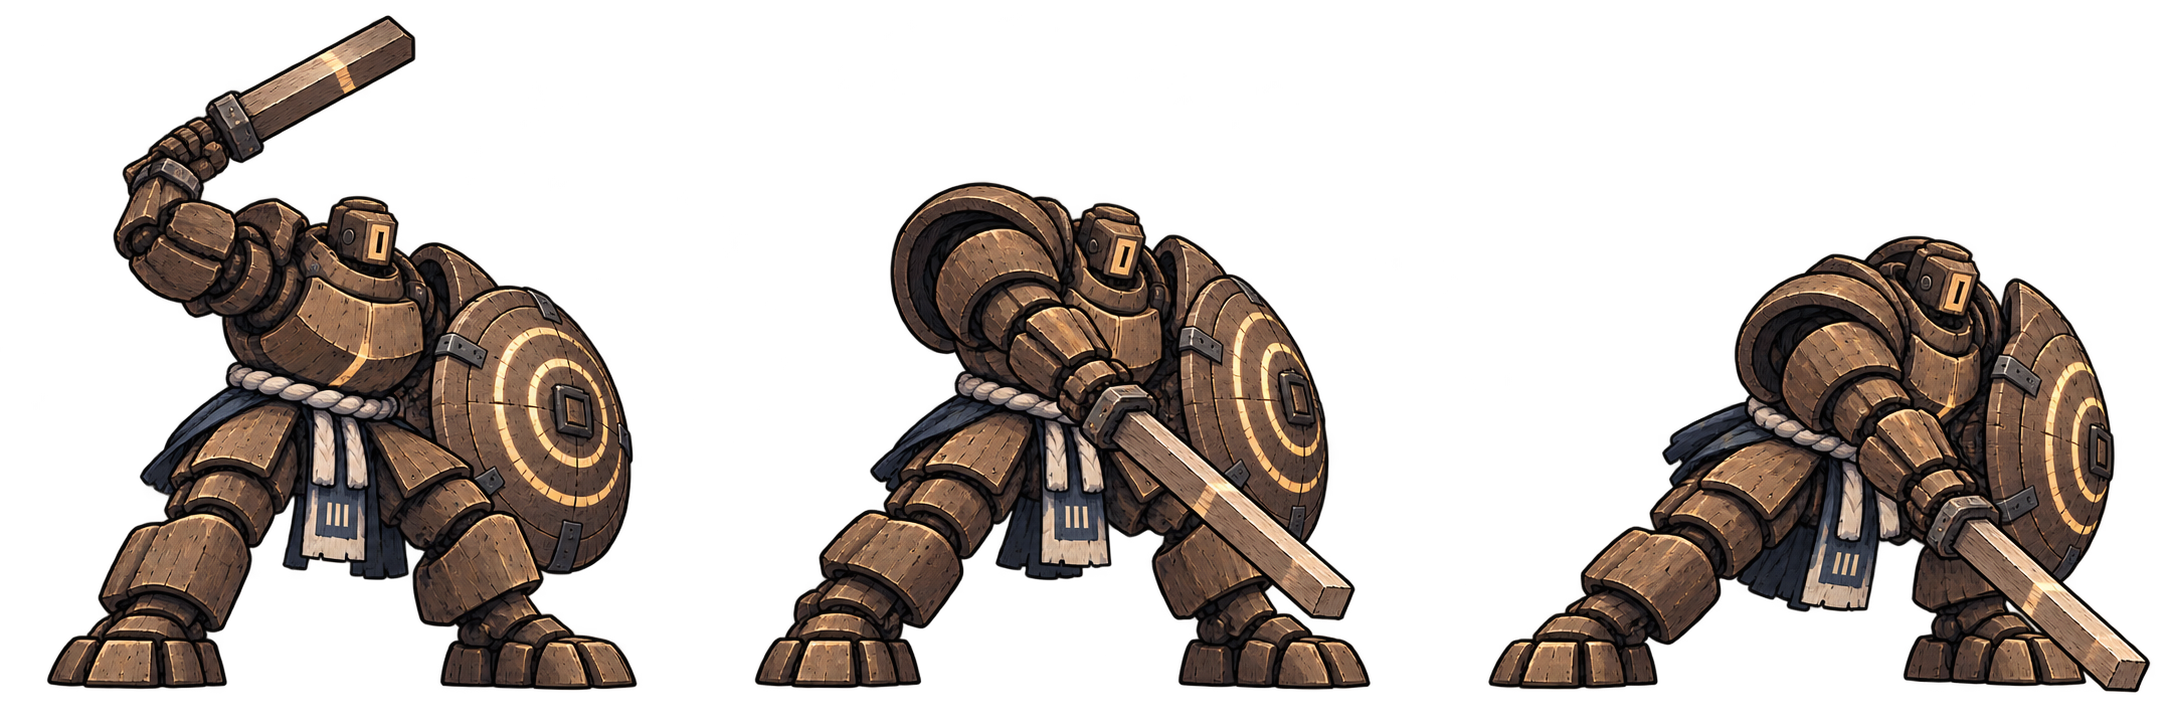
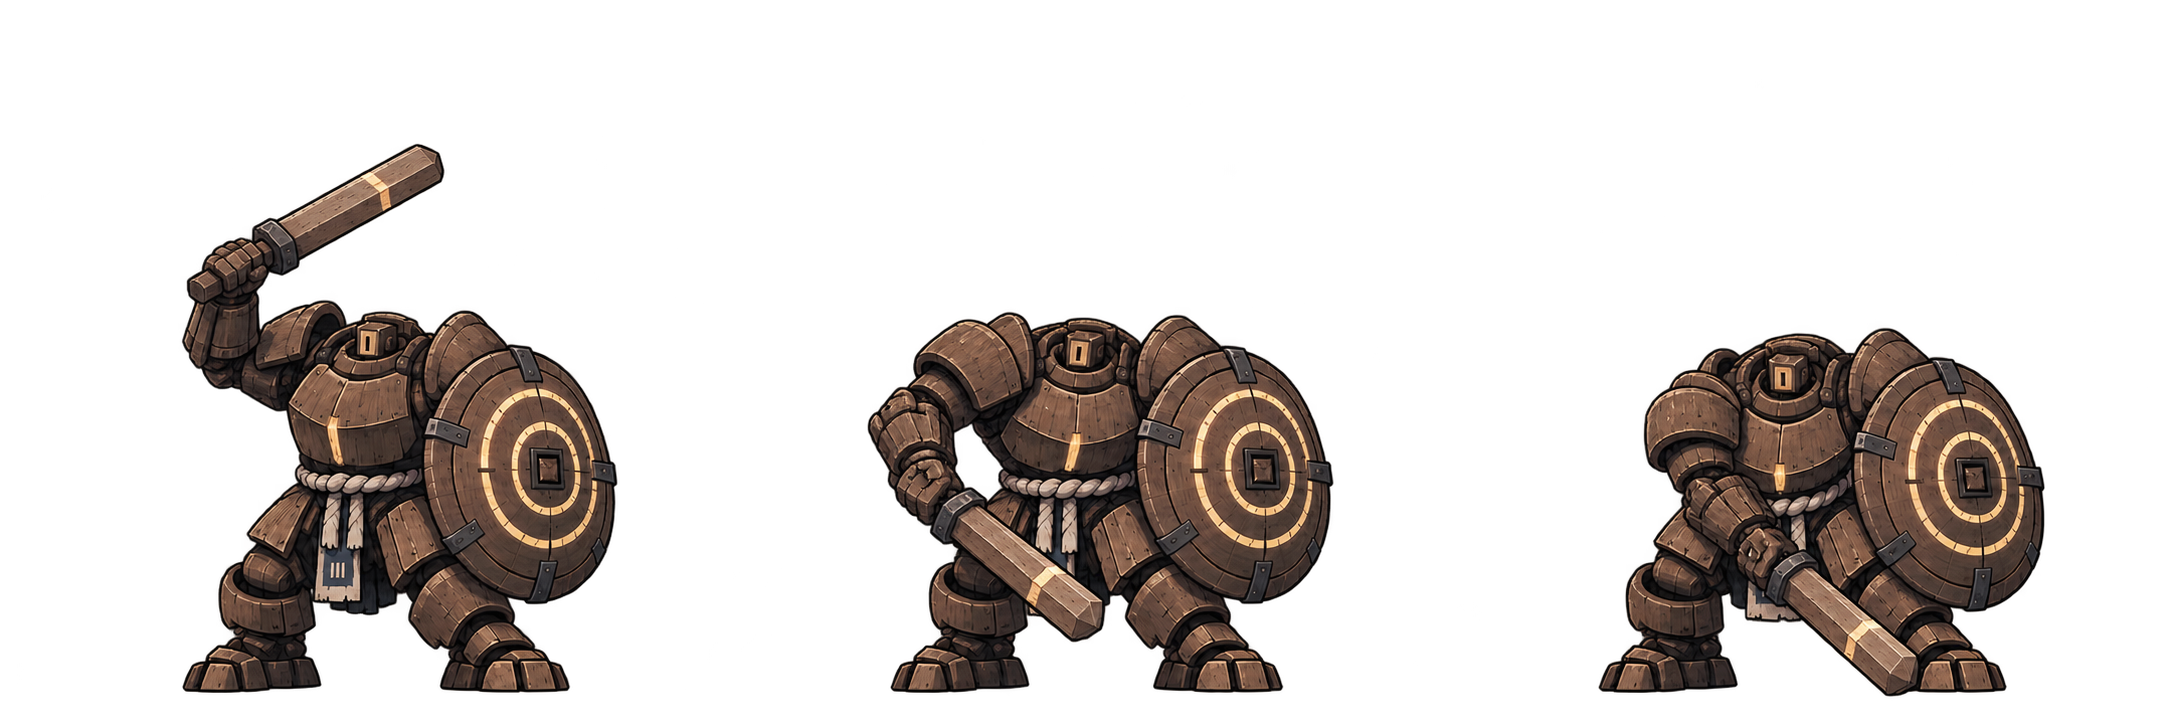
fix(guard): stabilize heavy attack appearance and remove GD04 barrier visual

diff --git a/tests/Unity/Guard/KarmaGuardPlayChecks.cs b/tests/Unity/Guard/KarmaGuardPlayChecks.cs
@@ -352,6 +352,11 @@ public static partial class KarmaGuardPlayChecks
             var molten = KarmaArtwork.Sprite("GuardHeavyMolten" + form, "Windup");
             Check(picture.sprite == normal && !enemy.HeavyParryWindowOpen, "GD02 starts with the original cool weapon: " + form);
             Vector3 scale = picture.transform.localScale, position = picture.transform.localPosition;
+            var heavyMotion = Get<object>(animator, "heavyStrike");
+            var showHeavy = (Func<EnemyAttack, bool>)Delegate.CreateDelegate(typeof(Func<EnemyAttack, bool>), heavyMotion, "Show");
+            Check(KarmaAllocationChecks.Count(() => { for (int i = 0; i < 120; i++) showHeavy(EnemyAttack.GD02); }) == 0,
+                "GD02 repeated calibrated pose display creates no steady managed allocations: " + form);
+
             await Until(() => enemy.HeavyParryWindowOpen, 2);
             var effects = Get<Transform>(enemy, "effectsRoot");
             Check(molten != null && picture.sprite == molten && effects.Find("GD02 parry cue") == null,
@@ -375,8 +380,9 @@ public static partial class KarmaGuardPlayChecks
             Check(animator.CurrentPose == "Idle" || animator.CurrentPose == "Guard",
                 "GD02 missed heavy recovers without a false hurt/recoil pose: " + form);
             Vector3 idleScale = picture.transform.localScale;
-            Check(scale.x < idleScale.x && Mathf.Approximately(scale.x, scale.y),
-                "GD02 larger source artwork is normalized to the standing body without stretching: " + form);
+            Check(Mathf.Approximately(scale.x, idleScale.x * normal.pixelsPerUnit / (picture.sprite.pixelsPerUnit * 1.35f))
+                && Mathf.Approximately(scale.x, scale.y),
+                "GD02 uses the idle pixel density with one uniform authoring scale: " + form);
             animator.Hurt(); await Seconds(0.03f);
             Check(animator.CurrentPose == "Hurt", "GD02 recovery still shows an actual damage reaction");
         }
@@ -565,10 +571,9 @@ public static partial class KarmaGuardPlayChecks
     }
     static async Task CheckShieldDisplayPriority()
     {
-        var frontal = Resources.Load<Sprite>("Guard/Effects/GD04_FrontBarrier");
         var invulnerable = Resources.Load<Sprite>("Guard/Effects/Guard_InvulnerableBarrier");
         var gd01 = KarmaArtwork.Sprite("GuardBossVFX", "Shield");
-        Check(frontal != null && invulnerable != null && gd01 != null, "All shield states load without replacing GD01's existing sprite");
+        Check(invulnerable != null && gd01 != null, "GD01 and invulnerability shield sprites load");
         foreach (var order in new[] { new[] { Essence.Guard, Essence.RisingSlash },
             new[] { Essence.Guard, Essence.SwordWave, Essence.RisingSlash } })
         foreach (int facing in new[] { -1, 1 })
@@ -580,27 +585,26 @@ public static partial class KarmaGuardPlayChecks
             var halo = Get<SpriteRenderer>(enemy, "shieldHalo");
             void State(Sprite expected, string label)
             {
-                Check(halo.enabled && halo.sprite == expected, label);
+                Check(halo.sprite == expected && (expected == null || halo.enabled), label);
                 int visible = 0;
                 foreach (var renderer in enemy.GetComponentsInChildren<SpriteRenderer>())
-                    if (renderer.enabled && (renderer.sprite == gd01 || renderer.sprite == frontal || renderer.sprite == invulnerable)) visible++;
-                Check(visible == 1, "Exactly one shield is visible: " + label);
+                    if (renderer.enabled && (renderer.sprite == gd01 || renderer.sprite == invulnerable)) visible++;
+                Check(visible == (expected == null ? 0 : 1), "Only the expected shield is visible: " + label);
             }
-            State(gd01, "GD01 suppresses the GD04 frontal visual in both directions");
+            State(gd01, "GD01 remains visible during GD04 in both directions");
             Check(Get<bool>(enemy, "frontalGuard"), "Actual GD04 still owns frontal damage reduction underneath GD01");
             if (order.Length == 3 && facing == 1) CaptureShieldFrame("GD04_with_GD01");
             Call(enemy, "BreakAutoShield"); Set(enemy, "nextShield", float.MaxValue);
             await Seconds(0.04f);
-            State(frontal, "Breaking GD01 reveals GD04's still-active frontal barrier");
-            Check(halo.flipX == (facing < 0), "The frontal arc follows the actual attack facing");
-            if (order.Length == 3) CaptureShieldFrame(facing < 0 ? "GD04_Front_Left" : "GD04_Front_Right");
+            State(null, "Breaking GD01 during GD04 leaves no barrier image");
+            if (order.Length == 3) CaptureShieldFrame(facing < 0 ? "GD04_NoBarrier_Left" : "GD04_NoBarrier_Right");
             float clock = enemy.FightSeconds;
             game.TogglePause(); await Task.Delay(80);
-            Check(enemy.FightSeconds == clock && halo.sprite == frontal, "Pause freezes the displayed shield state");
+            Check(enemy.FightSeconds == clock && halo.sprite == null, "Pause preserves GD04 without a barrier image");
             game.TogglePause();
             Set(enemy, "fullShield", true); Set(enemy, "shieldUntil", float.PositiveInfinity);
             await Seconds(0.04f);
-            State(invulnerable, "Invulnerability suppresses both GD01 and frontal artwork");
+            State(invulnerable, "Invulnerability remains visible during GD04");
             float hp = enemy.Health; enemy.TakeDamage(10, enemy.Position);
             Check(enemy.Health == hp, "Invulnerability still blocks damage");
             if (order.Length == 3 && facing == 1) CaptureShieldFrame("Invulnerable_Priority");
@@ -611,7 +615,7 @@ public static partial class KarmaGuardPlayChecks
                 "GD01 still reduces rear damage");
             Call(enemy, "BreakAutoShield"); Set(enemy, "nextShield", float.MaxValue);
             await Seconds(0.04f);
-            State(frontal, "After both higher-priority states end, GD04's frontal shield returns");
+            State(null, "Ending GD01 and invulnerability leaves GD04 without a barrier image");
             hp = enemy.Health;
             enemy.TakeDamage(10, enemy.Position + Vector2.right * facing * 5);
             Check(Mathf.Abs(hp - enemy.Health - 10 * game.Config.BossTuning.guard.shieldDamageMultiplier) < 0.02f,
@@ -633,10 +637,9 @@ public static partial class KarmaGuardPlayChecks
         var paint = (Action)Delegate.CreateDelegate(typeof(Action), behavior, behavior.GetType().GetMethod("PaintShield", Private));
         long events = KarmaAllocationChecks.Count(() => { for (int i = 0; i < 240; i++) paint(); });
         Check(events == 0, "Steady shield updates allocate no managed objects");
-        long textureBytes = UnityEngine.Profiling.Profiler.GetRuntimeMemorySizeLong(frontal.texture)
-            + UnityEngine.Profiling.Profiler.GetRuntimeMemorySizeLong(invulnerable.texture);
+        long textureBytes = UnityEngine.Profiling.Profiler.GetRuntimeMemorySizeLong(invulnerable.texture);
         Debug.Log("Guard shield display: one existing renderer, zero new GameObjects, steady GC.Alloc events=" + events
-            + ", two new texture runtime bytes=" + textureBytes + ". GPU frame time not measured.");
+            + ", invulnerability texture runtime bytes=" + textureBytes + ". GPU frame time not measured.");
         game.PlayerDied(); await Task.Delay(80);
         Check(!Get<SpriteRenderer>(enemy, "shieldHalo").enabled, "Death cleanup cannot leave a shield behind");
     }

diff --git a/tests/Unity/Guard/KarmaGuardAppearanceChecks.cs b/tests/Unity/Guard/KarmaGuardAppearanceChecks.cs
@@ -22,7 +22,7 @@ public static partial class KarmaGuardPlayChecks
     static int appearanceBoundsChecks;
     static RenderTexture appearanceVideoTarget;
     static Texture2D appearanceVideoPixels;
-    static bool appearanceDomeOnly;
+    static bool appearanceDomeOnly, appearanceHeavyOnly;
 
     [Serializable] sealed class AppearanceSample
     {
@@ -49,6 +49,11 @@ public static partial class KarmaGuardPlayChecks
         UnityEditor.SceneManagement.EditorSceneManager.OpenScene("Assets/Scenes/KarmaPrototype.unity");
         EditorWindow.GetWindow(typeof(Editor).Assembly.GetType("UnityEditor.GameView")).Show();
         EditorApplication.EnterPlaymode();
+    }
+    public static void RunHeavyAppearanceBatch()
+    {
+        SessionState.SetBool(AppearanceKey + ".HeavyOnly", true);
+        RunAppearanceAuditBatch();
     }
     public static void RunAppearanceGD05Batch()
     {
@@ -108,6 +113,12 @@ public static partial class KarmaGuardPlayChecks
                 if ((row.damageBounds.size - before.worldSize).sqrMagnitude > 0.00001f)
                     appearanceIssues.Add(route + "/" + label + ": original attack damage bounds changed");
             }
+        }
+        if (phase == "Static" && (label.StartsWith("GD02_") || label.StartsWith("GD05_Heavy")))
+        {
+            var idle = appearanceSamples.Find(s => s.route == route && s.phase == "Static" && s.label == "Idle" && s.facing == facing);
+            if (idle == null || (row.localScale - idle.localScale * (row.ppu / (idle.ppu * 1.35f))).sqrMagnitude > 0.00001f)
+                appearanceIssues.Add(route + "/" + label + ": heavy artwork pixel density differs from idle calibration");
         }
         if (Mathf.Abs(Mathf.Abs(row.worldScale.x) - Mathf.Abs(row.worldScale.y)) > 0.0001f)
             appearanceIssues.Add(route + "/" + label + ": nonuniform body transform " + row.worldScale);
@@ -232,6 +243,7 @@ public static partial class KarmaGuardPlayChecks
         if (Array.IndexOf(order, Essence.SwordWave) >= 0) patterns.Add(EnemyAttack.GD03);
         if (Array.IndexOf(order, Essence.RisingSlash) >= 0) patterns.Add(EnemyAttack.GD04);
         if (order.Length == 3) patterns.Add(EnemyAttack.GD05);
+        if (appearanceHeavyOnly) patterns.RemoveAll(pattern => pattern != EnemyAttack.GD02 && pattern != EnemyAttack.GD04 && pattern != EnemyAttack.GD05);
         if (appearanceDomeOnly) patterns.RemoveAll(pattern => pattern != EnemyAttack.GD05);
         foreach (var pattern in patterns)
         foreach (bool alternate in new[] { false, true })
@@ -302,6 +314,8 @@ public static partial class KarmaGuardPlayChecks
         bool background = Application.runInBackground; Application.runInBackground = true;
         Application.logMessageReceived += CaptureError; runtimeError = null;
         int code = 0;
+        appearanceHeavyOnly = SessionState.GetBool(AppearanceKey + ".HeavyOnly", false);
+        SessionState.EraseBool(AppearanceKey + ".HeavyOnly");
         appearanceDomeOnly = SessionState.GetBool(AppearanceKey + ".DomeOnly", false);
         SessionState.EraseBool(AppearanceKey + ".DomeOnly");
         Directory.CreateDirectory(AppearanceOutput);
@@ -345,7 +359,7 @@ public static partial class KarmaGuardPlayChecks
         {
             File.WriteAllText(AppearanceOutput + "/samples.json", JsonUtility.ToJson(new AppearanceAudit {
                 samples = appearanceSamples, issues = appearanceIssues,
-                coverage = (appearanceDomeOnly ? "Two final Guard inheritance routes; live GD05 only. " : "Five Guard inheritance routes; all live eligible attacks with full/low HP. ")
+                coverage = (appearanceDomeOnly ? "Two final Guard inheritance routes; live GD05 only. " : appearanceHeavyOnly ? "Five Guard inheritance routes; live GD02/GD04/GD05 with full/low HP. " : "Five Guard inheritance routes; all live eligible attacks with full/low HP. ")
                     + "Both facings; static reachable poses, six heavy frames, shield-away, GD04, death/revival; GD05 success/failure. Live trial duration shortened to 2 seconds in a runtime config copy. Captures and sampling do not edit production assets."
             }, true));
             Debug.Log("Guard appearance audit completed: " + appearanceSamples.Count + " samples, " + appearanceBoundsChecks + " original damage-bound comparisons, " + appearanceIssues.Count + " structural findings. See samples.json and same-scale pose captures; unchanged transforms do not prove unchanged painted anatomy.");

diff --git a/Assets/Scripts/Guard/KarmaGuardBossBehavior.cs b/Assets/Scripts/Guard/KarmaGuardBossBehavior.cs
@@ -19,7 +19,7 @@ namespace KarmaPrototype
             readonly GD01Pattern shield;
             public readonly GD02Pattern Heavy;
             public readonly GD05Pattern Dome;
-            Sprite gd01Shield, frontalShield, invulnerableShield;
+            Sprite gd01Shield, invulnerableShield;
             Vector2 shieldVisualSize;
             MaterialPropertyBlock shieldProperties;
             int domeUses;
@@ -43,9 +43,8 @@ namespace KarmaPrototype
                     throw new System.InvalidOperationException("GD01 이전 방어막 이미지가 없습니다.");
                 owner.shieldHalo.transform.localPosition = Vector2.up * KarmaSpace.Units(1.2f);
                 gd01Shield = owner.shieldHalo.sprite;
-                frontalShield = Resources.Load<Sprite>("Guard/Effects/GD04_FrontBarrier");
                 invulnerableShield = Resources.Load<Sprite>("Guard/Effects/Guard_InvulnerableBarrier");
-                if (frontalShield == null || invulnerableShield == null)
+                if (invulnerableShield == null)
                     throw new System.InvalidOperationException("방어형 상태별 방어막 이미지가 없습니다.");
                 shieldVisualSize = KarmaSpace.Units(new Vector2(4.4f, 3.8f)) * KarmaSpace.GuardianSizeBoost;
                 shieldProperties = new MaterialPropertyBlock();
@@ -123,22 +122,18 @@ namespace KarmaPrototype
             public override void Tick() { shield.Tick(); PaintShield(); }
             void PaintShield()
             {
-                // One existing renderer, one visual: invulnerability > GD01 > GD04 frontal defense.
-                // Visibility and damage remain owned by the existing combat state and rules.
-                var sprite = owner.Invulnerable ? invulnerableShield : AutoShieldActive || BlocksSelection ? gd01Shield : frontalShield;
+                // GD04 keeps frontal damage reduction without an additional barrier image.
+                var sprite = owner.Invulnerable ? invulnerableShield : AutoShieldActive || BlocksSelection ? gd01Shield : null;
                 var halo = owner.shieldHalo;
-                if (halo.sprite != sprite)
-                {
-                    halo.sprite = sprite;
-                    // The new full-canvas sprites retain transparent pivot space; match their painted
-                    // ring radius to the existing, tightly sliced GD01 image rather than its canvas.
-                    float framing = sprite == frontalShield ? 1.2f : sprite == invulnerableShield ? 1.15f : 1;
-                    halo.transform.localScale = new Vector3(shieldVisualSize.x * framing / sprite.bounds.size.x,
-                        shieldVisualSize.y * framing / sprite.bounds.size.y, 1);
-                    halo.GetPropertyBlock(shieldProperties);
-                    shieldProperties.SetTexture("_MainTex", sprite.texture); halo.SetPropertyBlock(shieldProperties);
-                }
-                halo.flipX = sprite == frontalShield && owner.Facing < 0;
+                if (halo.sprite == sprite) return;
+                halo.sprite = sprite;
+                if (sprite == null) return;
+                // Match the invulnerability ring to GD01 despite its transparent canvas padding.
+                float framing = sprite == invulnerableShield ? 1.15f : 1;
+                halo.transform.localScale = new Vector3(shieldVisualSize.x * framing / sprite.bounds.size.x,
+                    shieldVisualSize.y * framing / sprite.bounds.size.y, 1);
+                halo.GetPropertyBlock(shieldProperties);
+                shieldProperties.SetTexture("_MainTex", sprite.texture); halo.SetPropertyBlock(shieldProperties);
             }
             public override bool TrySelect(float distance, bool sight, bool escape, out EnemyAttack attack)
             {

diff --git a/Assets/Scripts/Guard/Visuals/KarmaHeavyStrikeMotion.cs b/Assets/Scripts/Guard/Visuals/KarmaHeavyStrikeMotion.cs
@@ -42,12 +42,12 @@ namespace KarmaPrototype
                     if (shieldlessPoses[i] == null || shieldlessHeatedPoses[i] == null)
                         throw new System.InvalidOperationException("GD05 빈손 강공격 자세 누락: " + names[i]);
                 }
-            // Match the helmet-to-sole body against this form's standing pose, excluding the raised weapon.
-            // All three frames and their molten variants share the same authored body scale.
+            // Preserve the original damage bounds independently of visual artwork calibration.
             float bodyFraction = key == "Ward" ? 0.76f : key == "WardRise" ? 0.64f : key == "WardWave" ? 0.60f : 0.65f;
             damageScale = originalScale * (standing.bounds.size.y / (poses[0].bounds.size.y * bodyFraction));
-            // Corrected compact bodies retain their idle helmet-to-sole size; damage keeps its original bounds.
-            scale = damageScale * (key == "WardWave" ? 1.10f : key == "WardFinal" ? 1.16f : 1);
+            // Heavy sheets use 1.35 source pixels per idle pixel, including molten and shield-away poses.
+            // Weapon reach and transparent padding must not change the body's pixel density.
+            scale = originalScale * (poses[0].pixelsPerUnit / (standing.pixelsPerUnit * 1.35f));
         }
         public void Prepare() { active = true; swinging = heated = false; Apply(0); }
         public void Heat() { heated = true; if (active && !swinging) Apply(0); }
@@ -67,7 +67,7 @@ namespace KarmaPrototype
             picture.transform.localPosition = home;
             picture.transform.localScale = scale;
             picture.transform.localRotation = Quaternion.identity;
-            CurrentPose = "GD02/" + poses[index].name;
+            CurrentPose = index == 0 ? "GD02/Windup" : index == 1 ? "GD02/Downstroke" : "GD02/FollowThrough";
         }
     }
 }
